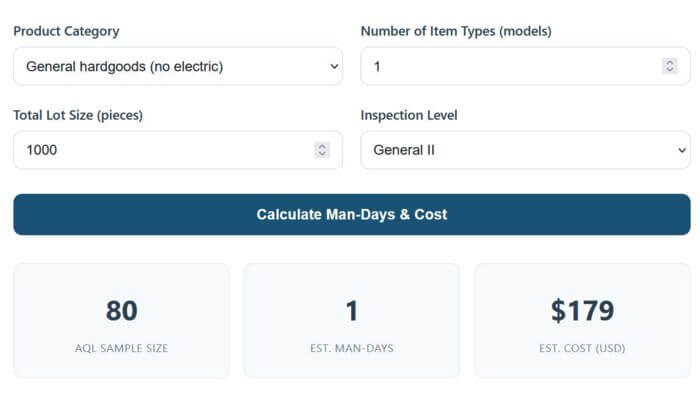
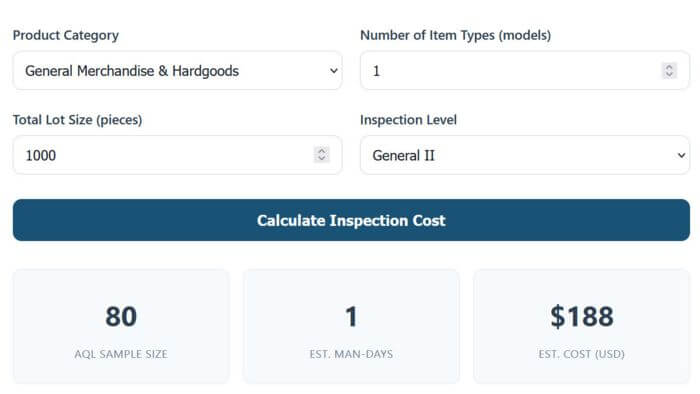
revise transparent to start from

diff --git a/inspection-cases/index.html b/inspection-cases/index.html
@@ -72,8 +72,8 @@ Use our findings from real inspections in China to brief your supplier. Prevent 
   <section class="section">
     <div class="container">
 
-      <p style="text-align:center;color:var(--text-muted);margin-bottom:40px;max-width:700px;margin-left:auto;margin-right:auto;" data-zh="真实验货案例分析 — 涵盖电子、纺织、机械、玩具等多个行业，展示我们如何帮助客户发现并解决产品质量问题。">
-         Typical manufacturing defects from real-world <span><a href="/">product inspection in China</a></span> — in-depth analysis and practical quality solutions to mitigate your supply chain risks.
+      <p><span style="text-align:center;color:var(--text-muted);margin-bottom:40px;max-width:700px;margin-left:auto;margin-right:auto;" data-zh="真实验货案例分析 — 涵盖电子、纺织、机械、玩具等多个行业，展示我们如何帮助客户发现并解决产品质量问题。">
+         Typical manufacturing defects from real-world </span><span><a href="/">product inspection in China</a></span> — in-depth analysis and practical quality solutions to mitigate your supply chain risks.
       </p>
 
       <div class="case-grid">
@@ -197,18 +197,17 @@ Use our findings from real inspections in China to brief your supplier. Prevent 
 
       </div>
 
-      <section class="cta">
-        <div class="container fade-in">
-          <h2 data-zh="更多验货案例持续更新中">Manufacturing Pitfall, China Inspection Mitigates</h2>
-          <p><span data-zh="我们的验货团队每天都在处理各类品质问题，更多案例将陆续发布。有类似的质量困扰？欢迎联系我们。">Our inspection team handles various quality issues every day. Use the findings to brief your supplier. When you need dedicated hands-on execution, our product inspection and </span><a href="/services/china-factory-audit"><strong>factory audit</strong></a><span> experts ensure compliance.</span></p>
-          <a href="/contact" class="btn btn-primary" data-zh="联系我们">Contact Your Experts</a>
-        </div>
-      </section>
-
     </div>
   </section>
 
-  
+  <section class="cta">
+    <div class="container fade-in">
+      <h2 data-zh="更多验货案例持续更新中">Manufacturing Pitfall, China Inspection Mitigates</h2>
+      <p><span data-zh="我们的验货团队每天都在处理各类品质问题，更多案例将陆续发布。有类似的质量困扰？欢迎联系我们。">Our inspection team handles various quality issues every day. Use the findings to brief your supplier. When you need dedicated hands-on execution, our product inspection and </span><a href="/services/china-factory-audit"><strong>factory audit</strong></a><span> experts ensure compliance.</span></p>
+      <a href="/contact" class="btn btn-primary" data-zh="联系我们">Contact Your Experts</a>
+    </div>
+  </section>
+
   </main>
 
   <footer class="footer">

diff --git a/factory-resource/index.html b/factory-resource/index.html
@@ -72,7 +72,7 @@ Explore factory resources and supplier profiles. Conduct an initial audit to unc
   <section class="section">
     <div class="container">
 
-      <p style="text-align:center;color:var(--text-muted);margin-bottom:40px;max-width:700px;margin-left:auto;margin-right:auto;" data-zh="中国制造业基地资源概览 — 了解各主要产业区域的特点与供应商资源分布，帮助您更好地进行供应链规划。">
+      <p><span style="text-align:center;color:var(--text-muted);margin-bottom:40px;max-width:700px;margin-left:auto;margin-right:auto;" data-zh="中国制造业基地资源概览 — 了解各主要产业区域的特点与供应商资源分布，帮助您更好地进行供应链规划。"></span>
         <span><a href="/services/china-factory-audit">Factory Audit Resource</a></span> of China's key manufacturing hubs — understand regional characteristics and supplier distribution to better plan your supply chain strategy.
       </p>
 
@@ -204,18 +204,17 @@ Explore factory resources and supplier profiles. Conduct an initial audit to unc
         </div>
       </div>
 
-      <section class="cta">
-        <div class="container fade-in">
-          <h2 data-zh="需要工厂审核服务？">Verify Your Suppliers with a Factory Audit</h2>
-          <p><span data-zh="我们可以帮助您审核和评估各区域的供应商，确保其符合您的质量和社会责任要求。">Our experts ensure quality and social compliance through comprehensive, </span><a href="/services/china-factory-audit">on-site factory assessments</a><span> across China and Asia.</span></p>
-          <a href="/contact" class="btn btn-primary" data-zh="联系我们">Verify Your Factory</a>
-        </div>
-      </section>
-
     </div>
   </section>
 
-  
+  <section class="cta">
+    <div class="container fade-in">
+      <h2 data-zh="需要工厂审核服务？">Verify Your Suppliers with a Factory Audit</h2>
+      <p><span data-zh="我们可以帮助您审核和评估各区域的供应商，确保其符合您的质量和社会责任要求。">Our experts ensure quality and social compliance through comprehensive, </span><a href="/services/china-factory-audit">on-site factory assessments</a><span> across China and Asia.</span></p>
+      <a href="/contact" class="btn btn-primary" data-zh="联系我们">Verify Your Factory</a>
+    </div>
+  </section>
+
   </main>
 
   <footer class="footer">

diff --git a/industry-updates/index.html b/industry-updates/index.html
@@ -122,7 +122,7 @@ Stay ahead with the latest QC compliance news and manufacturing insights — to 
   <section class="cta">
     <div class="container fade-in">
       <h2 data-zh="让您的供应链始终合规">Stay Compliant, Stay Ahead</h2>
-      <p data-zh="法规在变，市场在变，质量标准也在变。CNQ 为您解读最新法规要求，并提供可落地的品质合规方案，确保您的产品始终符合国际市场标准。">Regulations change. Markets shift. We continuously update your <span><a href="/">inspection</a></span> criteria to keep your products compliant and competitive.</p>
+      <p><span data-zh="法规在变，市场在变，质量标准也在变。CNQ 为您解读最新法规要求，并提供可落地的品质合规方案，确保您的产品始终符合国际市场标准。">Regulations change. Markets shift. We continuously update your </span><span><a href="/">inspection</a></span> criteria to keep your products compliant and competitive.</p>
       <a href="/contact" class="btn btn-primary" data-zh="联系合规专家">Talk to Your Compliance Experts</a>
     </div>
   </section>
